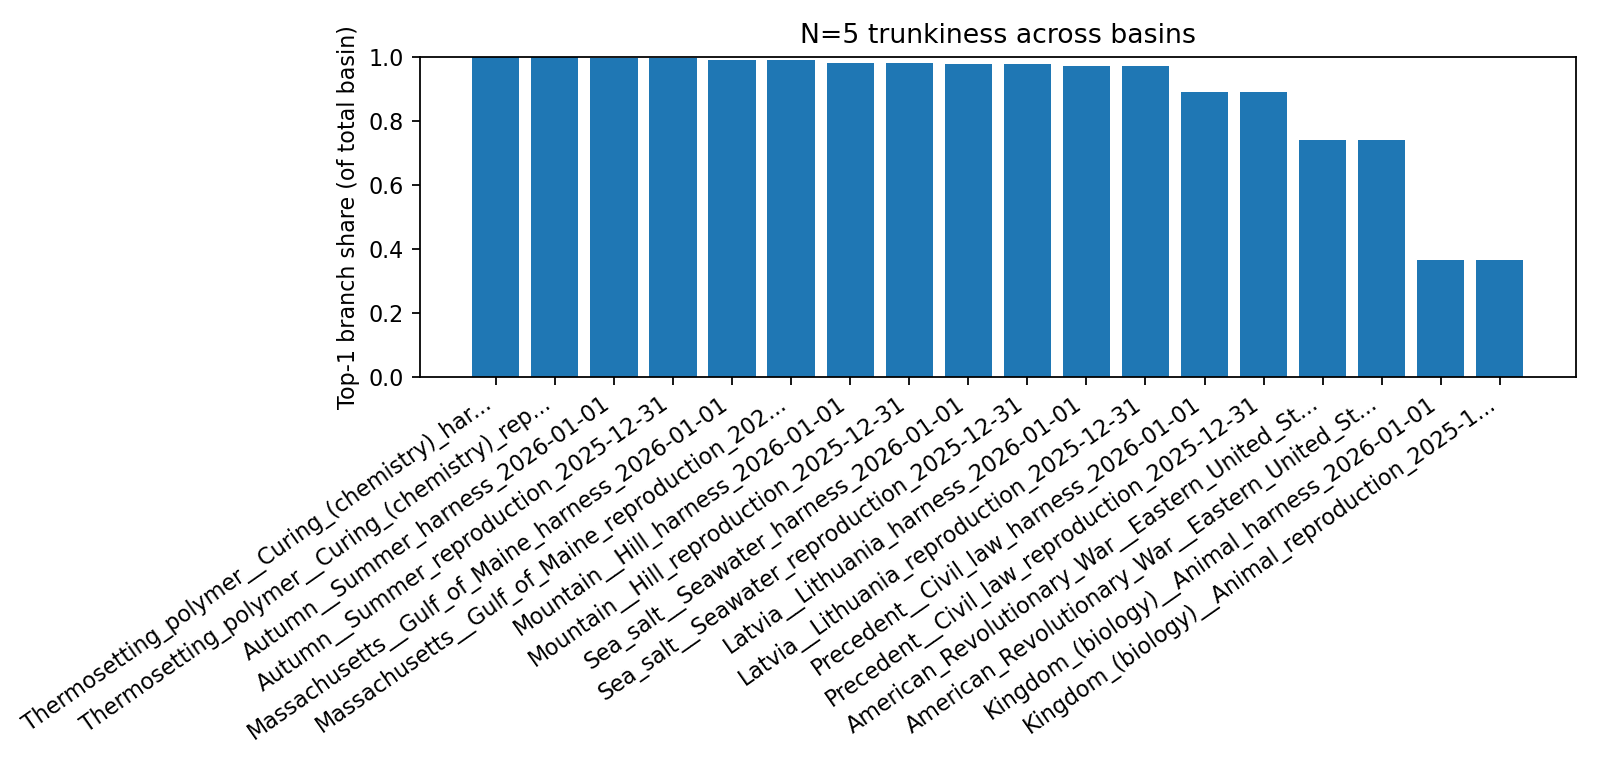
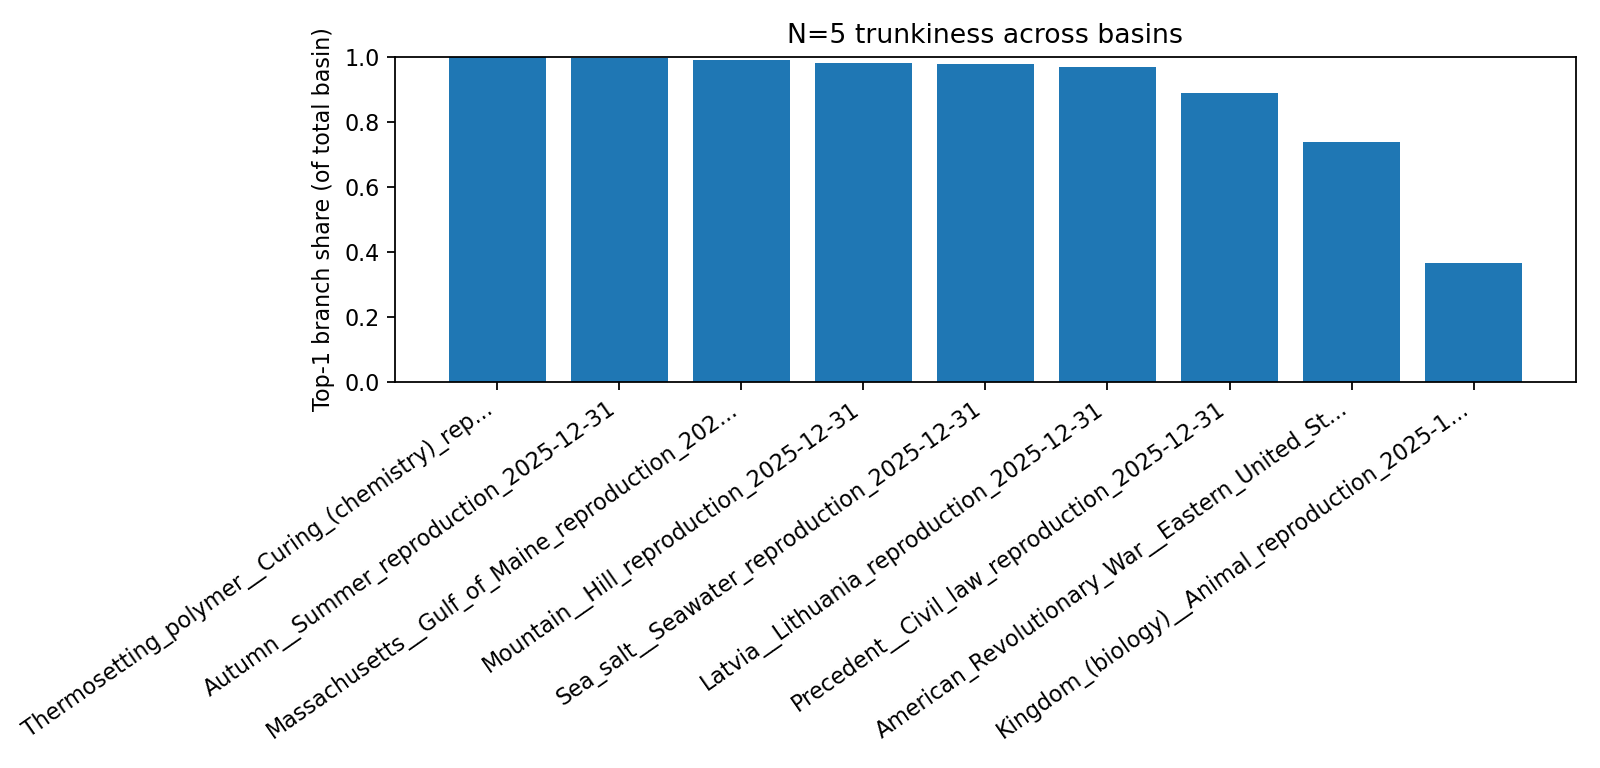
Update analysis scripts and report assets for enhanced N-link analysis flexibility

Changed region(s): [[0.1875, 0.0312, 0.9688, 0.5312], [0.0, 0.5312, 0.9375, 0.9688]]

diff --git a/n-link-analysis/scripts/compare-cycle-evolution.py b/n-link-analysis/scripts/compare-cycle-evolution.py
@@ -375,19 +375,34 @@ def main() -> None:
         ax3.grid(True, alpha=0.3)
         ax3.set_xticks(n_values)
 
-        # Panel 4: Amplification factors
+        # Panel 4: Amplification factors (only if N=5 exists in data)
         ax4 = fig.add_subplot(gs[1, 1])
-        n5_size = cycle_data[massachusetts_cycle][5]["size"]
-        amplifications = [n5_size / cycle_data[massachusetts_cycle][n]["size"] if cycle_data[massachusetts_cycle][n]["size"] > 0 else 0 for n in n_values]
-        ax4.bar(n_values, amplifications, color="#F18F01", alpha=0.7, edgecolor="black")
-        ax4.axhline(1, color="red", linestyle="--", alpha=0.5, label="N=5 baseline")
-        ax4.set_xlabel("N (Link Index)", fontsize=12)
-        ax4.set_ylabel("Amplification vs N=5", fontsize=12)
-        ax4.set_title("(D) Massachusetts Size Amplification (N=5 as baseline)", fontsize=13, fontweight="bold")
-        ax4.set_yscale("log")
-        ax4.legend(fontsize=10)
-        ax4.grid(True, alpha=0.3, axis="y")
-        ax4.set_xticks(n_values)
+        if 5 in cycle_data[massachusetts_cycle] and "size" in cycle_data[massachusetts_cycle][5]:
+            n5_size = cycle_data[massachusetts_cycle][5]["size"]
+            amplifications = [n5_size / cycle_data[massachusetts_cycle][n]["size"] if cycle_data[massachusetts_cycle][n]["size"] > 0 else 0 for n in n_values]
+            ax4.bar(n_values, amplifications, color="#F18F01", alpha=0.7, edgecolor="black")
+            ax4.axhline(1, color="red", linestyle="--", alpha=0.5, label="N=5 baseline")
+            ax4.set_xlabel("N (Link Index)", fontsize=12)
+            ax4.set_ylabel("Amplification vs N=5", fontsize=12)
+            ax4.set_title("(D) Massachusetts Size Amplification (N=5 as baseline)", fontsize=13, fontweight="bold")
+            ax4.set_yscale("log")
+            ax4.legend(fontsize=10)
+            ax4.grid(True, alpha=0.3, axis="y")
+            ax4.set_xticks(n_values)
+        else:
+            # If N=5 doesn't exist, show relative sizes normalized to first N value
+            baseline_n = n_values[0]
+            baseline_size = cycle_data[massachusetts_cycle][baseline_n]["size"]
+            relative_sizes = [cycle_data[massachusetts_cycle][n]["size"] / baseline_size if baseline_size > 0 else 0 for n in n_values]
+            ax4.bar(n_values, relative_sizes, color="#F18F01", alpha=0.7, edgecolor="black")
+            ax4.axhline(1, color="red", linestyle="--", alpha=0.5, label=f"N={baseline_n} baseline")
+            ax4.set_xlabel("N (Link Index)", fontsize=12)
+            ax4.set_ylabel(f"Size relative to N={baseline_n}", fontsize=12)
+            ax4.set_title(f"(D) Massachusetts Size Relative to N={baseline_n}", fontsize=13, fontweight="bold")
+            ax4.set_yscale("log")
+            ax4.legend(fontsize=10)
+            ax4.grid(True, alpha=0.3, axis="y")
+            ax4.set_xticks(n_values)
 
         fig.suptitle(f"Massachusetts ↔ Gulf of Maine: The N=5 Dominance Mystery", fontsize=15, fontweight="bold", y=0.995)
 
@@ -405,12 +420,25 @@ def main() -> None:
             max_d = cycle_data[massachusetts_cycle][n].get("max_depth", 0)
             print(f"  N={n}: {size:>9,} nodes ({dom:5.1f}% dominance), mean_depth={mean_d:5.1f}, max_depth={max_d:3d}")
 
-        print()
-        print("Amplification Factors (relative to each N):")
-        for n in n_values:
-            if cycle_data[massachusetts_cycle][n]["size"] > 0:
-                amp = n5_size / cycle_data[massachusetts_cycle][n]["size"]
-                print(f"  N=5 / N={n}: {amp:6.1f}×")
+        # Only print amplification factors if N=5 data exists
+        if 5 in cycle_data[massachusetts_cycle] and "size" in cycle_data[massachusetts_cycle][5]:
+            n5_size = cycle_data[massachusetts_cycle][5]["size"]
+            print()
+            print("Amplification Factors (relative to N=5):")
+            for n in n_values:
+                if cycle_data[massachusetts_cycle][n]["size"] > 0:
+                    amp = n5_size / cycle_data[massachusetts_cycle][n]["size"]
+                    print(f"  N=5 / N={n}: {amp:6.1f}×")
+        else:
+            # Use first N as baseline
+            baseline_n = n_values[0]
+            baseline_size = cycle_data[massachusetts_cycle][baseline_n]["size"]
+            print()
+            print(f"Relative Size Factors (relative to N={baseline_n}):")
+            for n in n_values:
+                if cycle_data[massachusetts_cycle][n]["size"] > 0 and baseline_size > 0:
+                    rel = cycle_data[massachusetts_cycle][n]["size"] / baseline_size
+                    print(f"  N={n} / N={baseline_n}: {rel:6.2f}×")
 
 
 if __name__ == "__main__":

diff --git a/n-link-analysis/scripts/compute-trunkiness-dashboard.py b/n-link-analysis/scripts/compute-trunkiness-dashboard.py
@@ -49,10 +49,16 @@ def main() -> int:
         default="bootstrap_2025-12-30",
         help="Tag used in the output filename.",
     )
+    parser.add_argument(
+        "--n",
+        type=int,
+        default=5,
+        help="N value for N-link rule (default: 5)",
+    )
     args = parser.parse_args()
 
     analysis_dir = Path(args.analysis_dir)
-    branch_all_paths = sorted(analysis_dir.glob("branches_n=5_cycle=*branches_all.tsv"))
+    branch_all_paths = sorted(analysis_dir.glob(f"branches_n={args.n}_cycle=*branches_all.tsv"))
 
     if not branch_all_paths:
         raise SystemExit(f"No branches_all TSVs found in: {analysis_dir}")
@@ -60,7 +66,7 @@ def main() -> int:
     rows: list[dict[str, object]] = []
 
     for all_path in branch_all_paths:
-        m = re.match(r"^branches_n=5_cycle=(.*)_branches_all\.tsv$", all_path.name)
+        m = re.match(rf"^branches_n={args.n}_cycle=(.*)_branches_all\.tsv$", all_path.name)
         cycle_key = m.group(1) if m else all_path.stem
         cycle_len = len(cycle_key.split("__"))
 
@@ -125,7 +131,7 @@ def main() -> int:
         ["top1_share_total", "total_basin_nodes"], ascending=[False, False]
     )
 
-    out_path = analysis_dir / f"branch_trunkiness_dashboard_n=5_{args.tag}.tsv"
+    out_path = analysis_dir / f"branch_trunkiness_dashboard_n={args.n}_{args.tag}.tsv"
     out_df.to_csv(out_path, sep="\t", index=False)
 
     # Print a small preview.

diff --git a/n-link-analysis/scripts/run-analysis-harness.py b/n-link-analysis/scripts/run-analysis-harness.py
@@ -227,7 +227,7 @@ def main() -> None:
     # 9. Compute trunkiness dashboard
     results["compute-trunkiness-dashboard"] = run_script(
         "compute-trunkiness-dashboard.py",
-        ["--tag", tag],
+        ["--tag", tag, "--n", str(n), "--analysis-dir", str(ANALYSIS_DIR)],
         description="Aggregate concentration metrics across all cycles",
     )
 

diff --git a/n-link-analysis/report/overview.md b/n-link-analysis/report/overview.md
@@ -16,7 +16,7 @@
         ## Trunkiness Dashboard
 
         Dashboard input:
-        - `data/wikipedia/processed/analysis/branch_trunkiness_dashboard_n=5_harness_2026-01-01.tsv`
+        - `data/wikipedia/processed/analysis/branch_trunkiness_dashboard_n=5_test_2026-01-01.tsv`
 
         **Charts**:
         - ![Top-1 share](assets/trunkiness_top1_share.png)
@@ -26,52 +26,34 @@
 
         | cycle_key                                                                 | total_basin_nodes | top1_share_total | effective_branches | dominant_entry_title | dominant_enters_cycle_title |
 | ------------------------------------------------------------------------- | ----------------- | ---------------- | ------------------ | -------------------- | --------------------------- |
-| Thermosetting_polymer__Curing_(chemistry)_harness_2026-01-01              | 61353             | 0.9997           | 1.001              | Concrete             | Curing_(chemistry)          |
 | Thermosetting_polymer__Curing_(chemistry)_reproduction_2025-12-31         | 61353             | 0.9997           | 1.001              | Concrete             | Curing_(chemistry)          |
-| Autumn__Summer_harness_2026-01-01                                         | 162689            | 0.9948           | 1.010              | Mediterranean_basin  | Summer                      |
 | Autumn__Summer_reproduction_2025-12-31                                    | 162689            | 0.9948           | 1.010              | Mediterranean_basin  | Summer                      |
-| Massachusetts__Gulf_of_Maine_harness_2026-01-01                           | 1009471           | 0.9894           | 1.022              | Connecticut          | Massachusetts               |
 | Massachusetts__Gulf_of_Maine_reproduction_2025-12-31                      | 1009471           | 0.9894           | 1.022              | Connecticut          | Massachusetts               |
-| Mountain__Hill_harness_2026-01-01                                         | 189269            | 0.9786           | 1.044              | Mountain_range       | Hill                        |
 | Mountain__Hill_reproduction_2025-12-31                                    | 189269            | 0.9786           | 1.044              | Mountain_range       | Hill                        |
-| Sea_salt__Seawater_harness_2026-01-01                                     | 265940            | 0.9770           | 1.047              | Fast_ice             | Seawater                    |
 | Sea_salt__Seawater_reproduction_2025-12-31                                | 265940            | 0.9770           | 1.047              | Fast_ice             | Seawater                    |
-| Latvia__Lithuania_harness_2026-01-01                                      | 83403             | 0.9692           | 1.064              | Poland               | Lithuania                   |
 | Latvia__Lithuania_reproduction_2025-12-31                                 | 83403             | 0.9692           | 1.064              | Poland               | Lithuania                   |
-| Precedent__Civil_law_harness_2026-01-01                                   | 56314             | 0.8888           | 1.252              | Constitution         | Precedent                   |
 | Precedent__Civil_law_reproduction_2025-12-31                              | 56314             | 0.8888           | 1.252              | Constitution         | Precedent                   |
-| American_Revolutionary_War__Eastern_United_States_harness_2026-01-01      | 46437             | 0.7379           | 1.800              | George_Washington    | American_Revolutionary_War  |
 | American_Revolutionary_War__Eastern_United_States_reproduction_2025-12-31 | 46437             | 0.7379           | 1.800              | George_Washington    | American_Revolutionary_War  |
-| Kingdom_(biology)__Animal_harness_2026-01-01                              | 116998            | 0.3658           | 5.051              | Brain                | Animal                      |
 | Kingdom_(biology)__Animal_reproduction_2025-12-31                         | 116998            | 0.3658           | 5.051              | Brain                | Animal                      |
 
         ## Dominance Collapse (Threshold Run)
 
             Collapse dashboard input:
-            - `data/wikipedia/processed/analysis/dominance_collapse_dashboard_n=5_harness_2026-01-01.tsv`
+            - `data/wikipedia/processed/analysis/dominance_collapse_dashboard_n=5_test_2026-01-01.tsv`
 
             Preview (sorted by min share):
 
-            | seed_title                 | first_below_threshold_hop | min_share | stop_reason     | stop_at_title          |
-| -------------------------- | ------------------------- | --------- | --------------- | ---------------------- |
-| American_Revolutionary_War | 5.0                       | 0.280     | share_below_0.5 | California             |
-| American_Revolutionary_War | 5.0                       | 0.280     | share_below_0.5 | California             |
-| Hill                       | 19.0                      | 0.282     | share_below_0.5 | Iran                   |
-| Hill                       | 19.0                      | 0.282     | share_below_0.5 | Iran                   |
-| Curing_(chemistry)         | 21.0                      | 0.299     | share_below_0.5 | Christianity           |
-| Curing_(chemistry)         | 21.0                      | 0.299     | share_below_0.5 | Christianity           |
-| Lithuania                  | 16.0                      | 0.355     | share_below_0.5 | Construction           |
-| Lithuania                  | 16.0                      | 0.355     | share_below_0.5 | Construction           |
-| Animal                     | 0.0                       | 0.366     | share_below_0.5 | Animal                 |
-| Animal                     | 0.0                       | 0.366     | share_below_0.5 | Animal                 |
-| Seawater                   | 12.0                      | 0.371     | share_below_0.5 | Canada                 |
-| Seawater                   | 12.0                      | 0.371     | share_below_0.5 | Canada                 |
-| Summer                     | 14.0                      | 0.470     | share_below_0.5 | Adelaide               |
-| Summer                     | 14.0                      | 0.470     | share_below_0.5 | Adelaide               |
-| Precedent                  | 2.0                       | 0.479     | share_below_0.5 | Executive_(government) |
-| Precedent                  | 2.0                       | 0.479     | share_below_0.5 | Executive_(government) |
-| Massachusetts              |                           | 0.763     | max_hops        | Coin                   |
-| Massachusetts              |                           | 0.763     | max_hops        | Coin                   |
+            | seed_title                 | first_below_threshold_hop | min_share | stop_reason     | stop_at_title                     |
+| -------------------------- | ------------------------- | --------- | --------------- | --------------------------------- |
+| American_Revolutionary_War | 5.0                       | 0.280     | share_below_0.5 | California                        |
+| Hill                       | 19.0                      | 0.282     | share_below_0.5 | Iran                              |
+| Lithuania                  | 16.0                      | 0.355     | share_below_0.5 | Construction                      |
+| Animal                     | 0.0                       | 0.366     | share_below_0.5 | Animal                            |
+| Seawater                   | 12.0                      | 0.371     | share_below_0.5 | Canada                            |
+| Summer                     | 14.0                      | 0.470     | share_below_0.5 | Adelaide                          |
+| Precedent                  | 2.0                       | 0.479     | share_below_0.5 | Executive_(government)            |
+| Curing_(chemistry)         |                           | 0.648     | max_hops        | Son_of_God_(Christianity)         |
+| Massachusetts              |                           | 0.763     | max_hops        | Criminal_law_of_the_United_States |
 
         ## Example Chases (Dominant Share vs Hop)
 
@@ -97,7 +79,7 @@
         ## How to Regenerate
 
         From repo root:
-        - `python n-link-analysis/scripts/render-human-report.py --tag harness_2026-01-01`
+        - `python n-link-analysis/scripts/render-human-report.py --tag test_n3_validated`
 
         This rewrites:
         - `n-link-analysis/report/overview.md`
